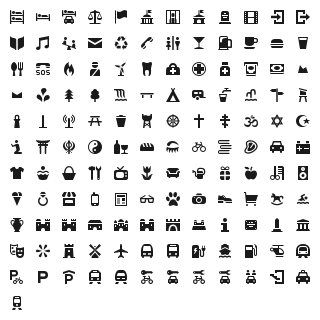
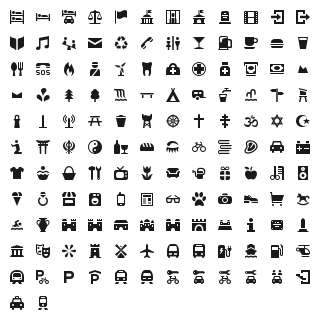
added laundry shop (adapted from Maki)

diff --git a/font/osmic-preview.html b/font/osmic-preview.html
@@ -231,6 +231,7 @@
 .oc-jewellery:before,
 .oc-jewish:before,
 .oc-kiosk:before,
+.oc-laundry:before,
 .oc-library:before,
 .oc-lighthouse:before,
 .oc-mast:before,
@@ -378,6 +379,7 @@
 .oc-jewellery:before { content: "\f138"; }
 .oc-jewish:before { content: "\f139"; }
 .oc-kiosk:before { content: "\f13a"; }
+.oc-laundry:before { content: "\f186"; }
 .oc-library:before { content: "\f13b"; }
 .oc-lighthouse:before { content: "\f13c"; }
 .oc-mast:before { content: "\f13d"; }
@@ -455,7 +457,7 @@
   <body class="characters-off">
     <div id="page" class="container">
       <header>
-        <h1>osmic contains 133 glyphs:</h1>
+        <h1>osmic contains 134 glyphs:</h1>
         <a onclick="toggleCharacters(); return false;" href="#">Toggle Preview Characters</a>
       </header>
 
@@ -1380,6 +1382,19 @@
         <div class="usage">
           <input class="class" type="text" readonly="readonly" onClick="this.select();" value=".oc-kiosk" />
           <input class="point" type="text" readonly="readonly" onClick="this.select();" value="&amp;#xf13a;" />
+        </div>
+      </div>
+      
+      <div class="glyph">
+        <div class="preview-glyphs">
+          <span class="step size-12"><span class="letters">Pp</span><i id="oc-laundry" class="oc-laundry"></i></span><span class="step size-14"><span class="letters">Pp</span><i id="oc-laundry" class="oc-laundry"></i></span><span class="step size-16"><span class="letters">Pp</span><i id="oc-laundry" class="oc-laundry"></i></span><span class="step size-18"><span class="letters">Pp</span><i id="oc-laundry" class="oc-laundry"></i></span><span class="step size-21"><span class="letters">Pp</span><i id="oc-laundry" class="oc-laundry"></i></span><span class="step size-24"><span class="letters">Pp</span><i id="oc-laundry" class="oc-laundry"></i></span><span class="step size-36"><span class="letters">Pp</span><i id="oc-laundry" class="oc-laundry"></i></span><span class="step size-48"><span class="letters">Pp</span><i id="oc-laundry" class="oc-laundry"></i></span><span class="step size-60"><span class="letters">Pp</span><i id="oc-laundry" class="oc-laundry"></i></span><span class="step size-72"><span class="letters">Pp</span><i id="oc-laundry" class="oc-laundry"></i></span>
+        </div>
+        <div class="preview-scale">
+          <span class="step">12</span><span class="step">14</span><span class="step">16</span><span class="step">18</span><span class="step">21</span><span class="step">24</span><span class="step">36</span><span class="step">48</span><span class="step">60</span><span class="step">72</span>
+        </div>
+        <div class="usage">
+          <input class="class" type="text" readonly="readonly" onClick="this.select();" value=".oc-laundry" />
+          <input class="point" type="text" readonly="readonly" onClick="this.select();" value="&amp;#xf186;" />
         </div>
       </div>
       

diff --git a/font/osmic.css b/font/osmic.css
@@ -94,6 +94,7 @@
 .oc-jewellery:before,
 .oc-jewish:before,
 .oc-kiosk:before,
+.oc-laundry:before,
 .oc-library:before,
 .oc-lighthouse:before,
 .oc-mast:before,
@@ -241,6 +242,7 @@
 .oc-jewellery:before { content: "\f138"; }
 .oc-jewish:before { content: "\f139"; }
 .oc-kiosk:before { content: "\f13a"; }
+.oc-laundry:before { content: "\f186"; }
 .oc-library:before { content: "\f13b"; }
 .oc-lighthouse:before { content: "\f13c"; }
 .oc-mast:before { content: "\f13d"; }
